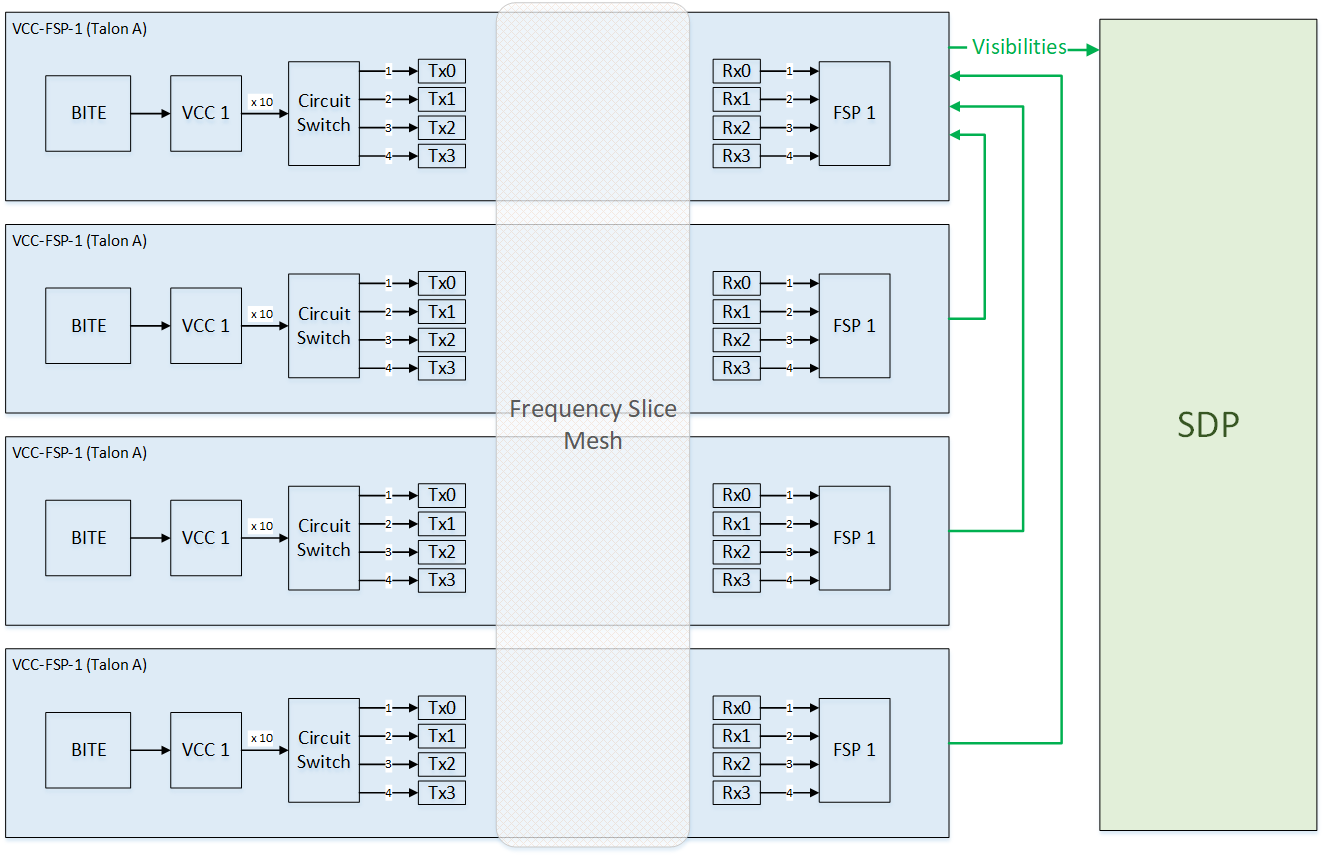
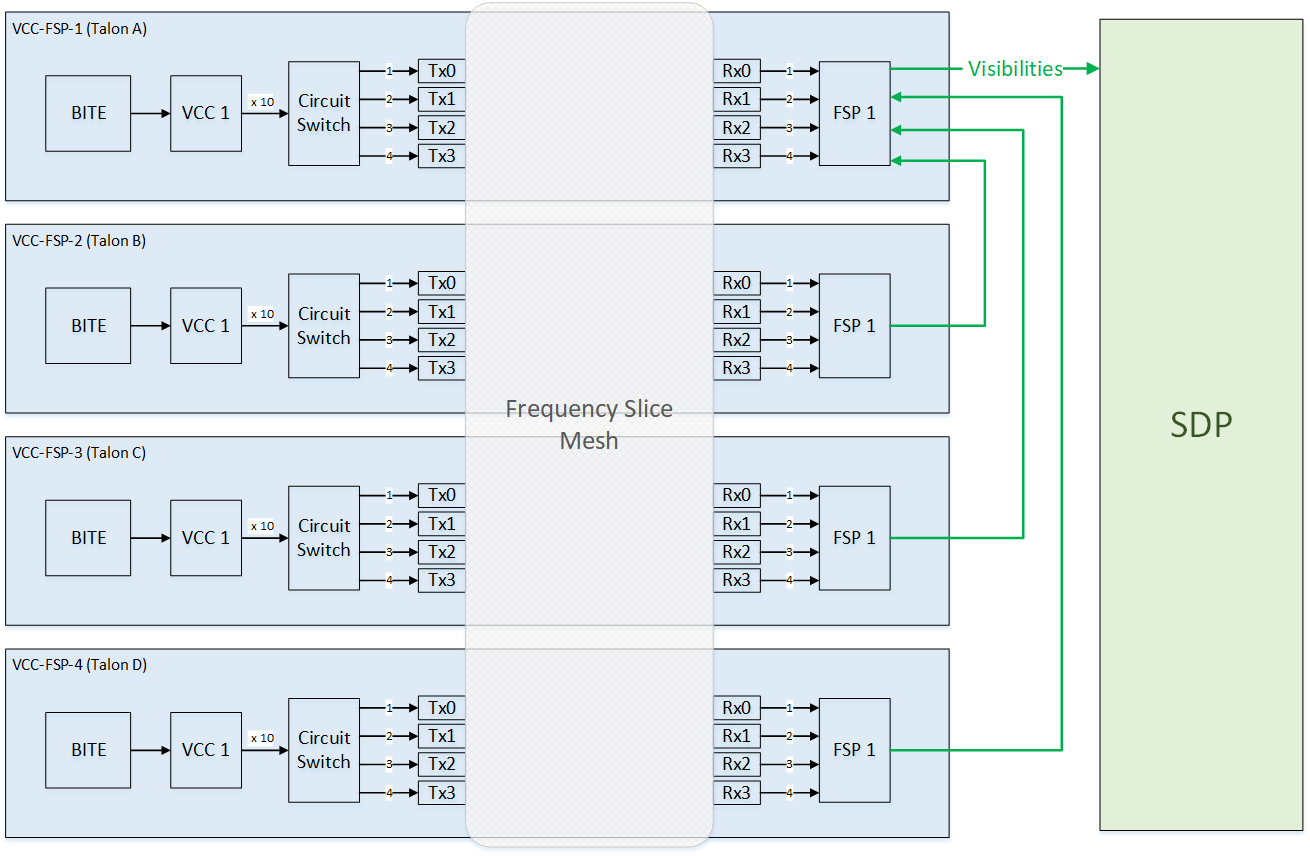
CIP-2006 Added to integration tests, updated diagram

diff --git a/tests/integration/slim/Slim_test.py b/tests/integration/slim/Slim_test.py
@@ -14,7 +14,7 @@ import os
 
 import pytest
 from ska_tango_base.commands import ResultCode
-from ska_tango_base.control_model import AdminMode, LoggingLevel
+from ska_tango_base.control_model import AdminMode, HealthState, LoggingLevel
 from tango import DevState
 
 # Standard imports
@@ -51,14 +51,16 @@ class TestSlim:
             proxy.adminMode = AdminMode.ONLINE
             proxy.set_timeout_millis(10000)
 
-        # The Slim should be in the OFF state after being initialised
-        test_proxies.slim.loggingLevel = LoggingLevel.DEBUG
-        test_proxies.slim.adminMode = AdminMode.ONLINE
+        device_under_test = test_proxies.slim
+        for mesh in device_under_test:
+            # The Slim should be in the OFF state after being initialised
+            mesh.loggingLevel = LoggingLevel.DEBUG
+            mesh.adminMode = AdminMode.ONLINE
 
-        test_proxies.wait_timeout_dev(
-            [test_proxies.slim], DevState.OFF, wait_time_s, sleep_time_s
-        )
-        assert test_proxies.slim.State() == DevState.OFF
+            test_proxies.wait_timeout_dev(
+                [mesh], DevState.OFF, wait_time_s, sleep_time_s
+            )
+            assert mesh.State() == DevState.OFF
 
     def test_On(self: TestSlim, test_proxies: pytest.fixture) -> None:
         """
@@ -69,16 +71,17 @@ class TestSlim:
         wait_time_s = 3
         sleep_time_s = 1
 
-        device_under_test = test_proxies.slim
-
         # Turn on the LRUs and then the Slim devices
         for proxy in test_proxies.talon_lru:
             proxy.On()
-        device_under_test.On()
-        test_proxies.wait_timeout_dev(
-            [device_under_test], DevState.ON, wait_time_s, sleep_time_s
-        )
-        assert device_under_test.State() == DevState.ON
+
+        device_under_test = test_proxies.slim
+        for mesh in device_under_test:
+            mesh.On()
+            test_proxies.wait_timeout_dev(
+                [mesh], DevState.ON, wait_time_s, sleep_time_s
+            )
+            assert mesh.State() == DevState.ON
 
     def test_Off(self: TestSlim, test_proxies: pytest.fixture) -> None:
         """
@@ -91,13 +94,12 @@ class TestSlim:
         sleep_time_s = 0.1
 
         device_under_test = test_proxies.slim
-
-        device_under_test.Off()
-
-        test_proxies.wait_timeout_dev(
-            [device_under_test], DevState.OFF, wait_time_s, sleep_time_s
-        )
-        assert device_under_test.State() == DevState.OFF
+        for mesh in device_under_test:
+            mesh.Off()
+            test_proxies.wait_timeout_dev(
+                [mesh], DevState.OFF, wait_time_s, sleep_time_s
+            )
+            assert mesh.State() == DevState.OFF
 
     def test_Disconnect(self: TestSlim, test_proxies: pytest.fixture) -> None:
         """
@@ -110,17 +112,17 @@ class TestSlim:
         sleep_time_s = 0.1
 
         device_under_test = test_proxies.slim
+        for mesh in device_under_test:
+            mesh.Off()
 
-        device_under_test.Off()
+            # trigger stop_communicating by setting the AdminMode to OFFLINE
+            mesh.adminMode = AdminMode.OFFLINE
 
-        # trigger stop_communicating by setting the AdminMode to OFFLINE
-        device_under_test.adminMode = AdminMode.OFFLINE
-
-        # controller device should be in OFF state after stop_communicating
-        test_proxies.wait_timeout_dev(
-            [device_under_test], DevState.OFF, wait_time_s, sleep_time_s
-        )
-        assert device_under_test.State() == DevState.OFF
+            # controller device should be in OFF state after stop_communicating
+            test_proxies.wait_timeout_dev(
+                [mesh], DevState.OFF, wait_time_s, sleep_time_s
+            )
+            assert mesh.State() == DevState.OFF
 
         # Stop monitoring the TalonLRUs and power switch devices
         for proxy in test_proxies.power_switch:
@@ -138,7 +140,10 @@ class TestSlim:
         """
 
         device_under_test = test_proxies.slim
-        with open(data_file_path + 'slim_test_config.yaml', 'r') as f:
-            rc, msg = device_under_test.Configure(f.read())
+        for mesh in device_under_test:
+            with open(data_file_path + "slim_test_config.yaml", "r") as f:
+                rc, msg = mesh.Configure(f.read())
 
-        assert rc == ResultCode.OK
+            assert rc == ResultCode.OK
+            for link in mesh.healthSummary:
+                assert link == HealthState.OK

diff --git a/tests/integration/controller/CbfController_test.py b/tests/integration/controller/CbfController_test.py
@@ -62,6 +62,8 @@ class TestCbfController:
             assert test_proxies.vcc[i].State() == DevState.DISABLE
         for i in range(1, test_proxies.num_fsp + 1):
             assert test_proxies.fsp[i].State() == DevState.DISABLE
+        for mesh in test_proxies.slim:
+            assert mesh.State() == DevState.DISABLE
         for i in ["CORR", "PSS-BF", "PST-BF"]:
             for j in range(1, test_proxies.num_sub + 1):
                 for k in range(1, test_proxies.num_fsp + 1):
@@ -109,6 +111,8 @@ class TestCbfController:
             assert test_proxies.vcc[i].adminMode == AdminMode.ONLINE
         for i in range(1, test_proxies.num_fsp + 1):
             assert test_proxies.fsp[i].adminMode == AdminMode.ONLINE
+        for mesh in test_proxies.slim:
+            assert mesh.adminMode == AdminMode.ONLINE
         for i in ["CORR", "PSS-BF", "PST-BF"]:
             for j in range(1, test_proxies.num_sub + 1):
                 for k in range(1, test_proxies.num_fsp + 1):
@@ -183,6 +187,12 @@ class TestCbfController:
             )
             assert test_proxies.fsp[i].State() == DevState.OFF
 
+        for mesh in test_proxies.slim:
+            test_proxies.wait_timeout_dev(
+                [mesh], DevState.OFF, wait_time_s, sleep_time_s
+            )
+            assert mesh.State() == DevState.OFF
+
         for i in ["CORR", "PSS-BF", "PST-BF"]:
             for j in range(1, test_proxies.num_sub + 1):
                 for k in range(1, test_proxies.num_fsp + 1):
@@ -256,6 +266,8 @@ class TestCbfController:
             assert test_proxies.vcc[i].obsState == ObsState.IDLE
         for i in range(1, test_proxies.num_fsp + 1):
             assert test_proxies.fsp[i].State() == DevState.OFF
+        for mesh in test_proxies.slim:
+            assert mesh.State() == DevState.OFF
         for func in ["CORR", "PSS-BF", "PST-BF"]:
             for sub in range(1, test_proxies.num_sub + 1):
                 for fsp in range(1, test_proxies.num_fsp + 1):
@@ -306,6 +318,8 @@ class TestCbfController:
             assert test_proxies.vcc[i].obsState == ObsState.IDLE
         for i in range(1, test_proxies.num_fsp + 1):
             assert test_proxies.fsp[i].State() == DevState.OFF
+        for mesh in test_proxies.slim:
+            assert mesh.State() == DevState.OFF
         for func in ["CORR", "PSS-BF", "PST-BF"]:
             for sub in range(1, test_proxies.num_sub + 1):
                 for fsp in range(1, test_proxies.num_fsp + 1):
@@ -402,6 +416,8 @@ class TestCbfController:
             assert test_proxies.vcc[i].obsState == ObsState.IDLE
         for i in range(1, test_proxies.num_fsp + 1):
             assert test_proxies.fsp[i].State() == DevState.OFF
+        for mesh in test_proxies.slim:
+            assert mesh.State() == DevState.OFF
         for func in ["CORR", "PSS-BF", "PST-BF"]:
             for sub in range(1, test_proxies.num_sub + 1):
                 for fsp in range(1, test_proxies.num_fsp + 1):
@@ -493,6 +509,11 @@ class TestCbfController:
                 sleep_time_s,
             )
             assert test_proxies.fsp[i].State() == DevState.DISABLE
+        for mesh in test_proxies.slim:
+            test_proxies.wait_timeout_dev(
+                [mesh], DevState.OFF, wait_time_s, sleep_time_s
+            )
+            assert mesh.State() == DevState.OFF
         for i in ["CORR", "PSS-BF", "PST-BF"]:
             for j in range(1, test_proxies.num_sub + 1):
                 for k in range(1, test_proxies.num_fsp + 1):

diff --git a/tests/integration/slim_link/SlimLink_test.py b/tests/integration/slim_link/SlimLink_test.py
@@ -1,0 +1,95 @@
+#!/usr/bin/env python
+# -*- coding: utf-8 -*-
+#
+# This file is part of the mid-cbf-prototype project
+#
+#
+#
+# Distributed under the terms of the BSD-3-Clause license.
+# See LICENSE.txt for more info.
+"""Contain the tests for the SlimLink."""
+from __future__ import annotations
+
+import os
+
+import pytest
+from ska_tango_base.control_model import AdminMode, LoggingLevel
+from tango import DevState
+
+# Standard imports
+
+# Path
+data_file_path = os.path.dirname(os.path.abspath(__file__)) + "/../../data/"
+
+
+# Tango imports
+
+# SKA specific imports
+
+
+class TestSlimLink:
+    """
+    Test class for Slim device class integration testing.
+    """
+
+    def test_Connect(self: TestSlimLink, test_proxies: pytest.fixture) -> None:
+        """
+        Test the initial states and verify the component manager
+        can start communicating
+
+        :param test_proxies: the proxies test fixture
+        """
+        wait_time_s = 3
+        sleep_time_s = 1
+
+        # Start monitoring the TalonLRUs and power switch devices
+        for proxy in test_proxies.power_switch:
+            proxy.adminMode = AdminMode.ONLINE
+
+        for proxy in test_proxies.talon_lru:
+            proxy.adminMode = AdminMode.ONLINE
+            proxy.set_timeout_millis(10000)
+
+        device_under_test = test_proxies.slim_link
+
+        # The Slim should be in the UNKNOWN state after being initialised
+        for link in device_under_test:
+            link.loggingLevel = LoggingLevel.DEBUG
+            link.adminMode = AdminMode.ONLINE
+
+            test_proxies.wait_timeout_dev(
+                [link], DevState.UNKNOWN, wait_time_s, sleep_time_s
+            )
+            assert link.State() == DevState.UNKNOWN
+
+    def test_Disconnect(
+        self: TestSlimLink, test_proxies: pytest.fixture
+    ) -> None:
+        """
+        Verify the component manager can stop communicating
+
+        :param test_proxies: the proxies test fixture
+        """
+
+        wait_time_s = 3
+        sleep_time_s = 0.1
+
+        device_under_test = test_proxies.slim_link
+
+        for link in device_under_test:
+            # trigger stop_communicating by setting the AdminMode to OFFLINE
+            link.adminMode = AdminMode.OFFLINE
+
+            # controller device should be in DISABLE state after stop_communicating
+            test_proxies.wait_timeout_dev(
+                [link], DevState.DISABLE, wait_time_s, sleep_time_s
+            )
+            assert link.State() == DevState.DISABLE
+
+        # Stop monitoring the TalonLRUs and power switch devices
+        for proxy in test_proxies.power_switch:
+            proxy.adminMode = AdminMode.OFFLINE
+
+        for proxy in test_proxies.talon_lru:
+            proxy.adminMode = AdminMode.OFFLINE
+            proxy.set_timeout_millis(10000)

diff --git a/tests/conftest.py b/tests/conftest.py
@@ -482,10 +482,12 @@ def init_proxies_fixture():
                 )
 
             # Slim
-            self.slim = CbfDeviceProxy(
-                fqdn="mid_csp_cbf/slim/slim-fs",
-                logger=logging.getLogger(),
-            )
+            self.slim = [
+                CbfDeviceProxy(
+                    fqdn="mid_csp_cbf/slim/slim-fs",
+                    logger=logging.getLogger(),
+                )
+            ]
 
             # SlimLink
             self.slim_link = []
